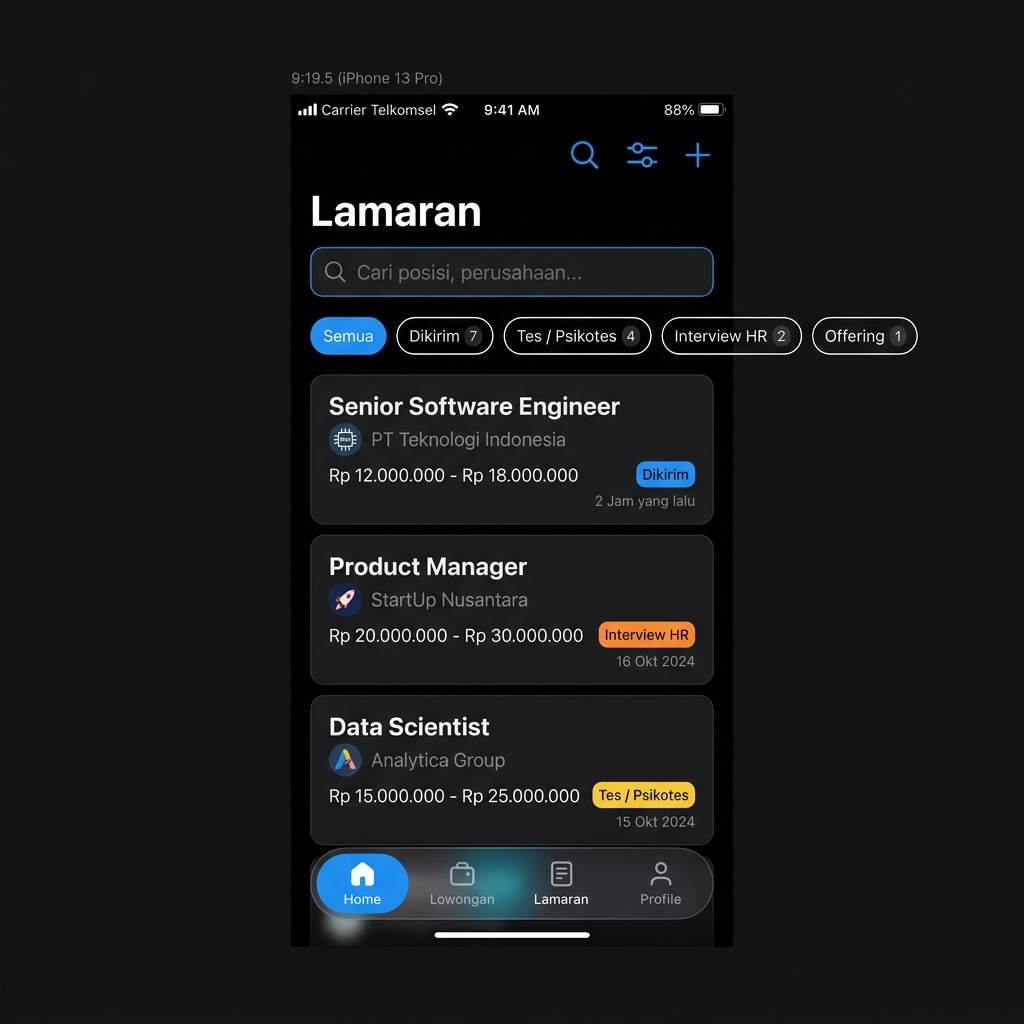
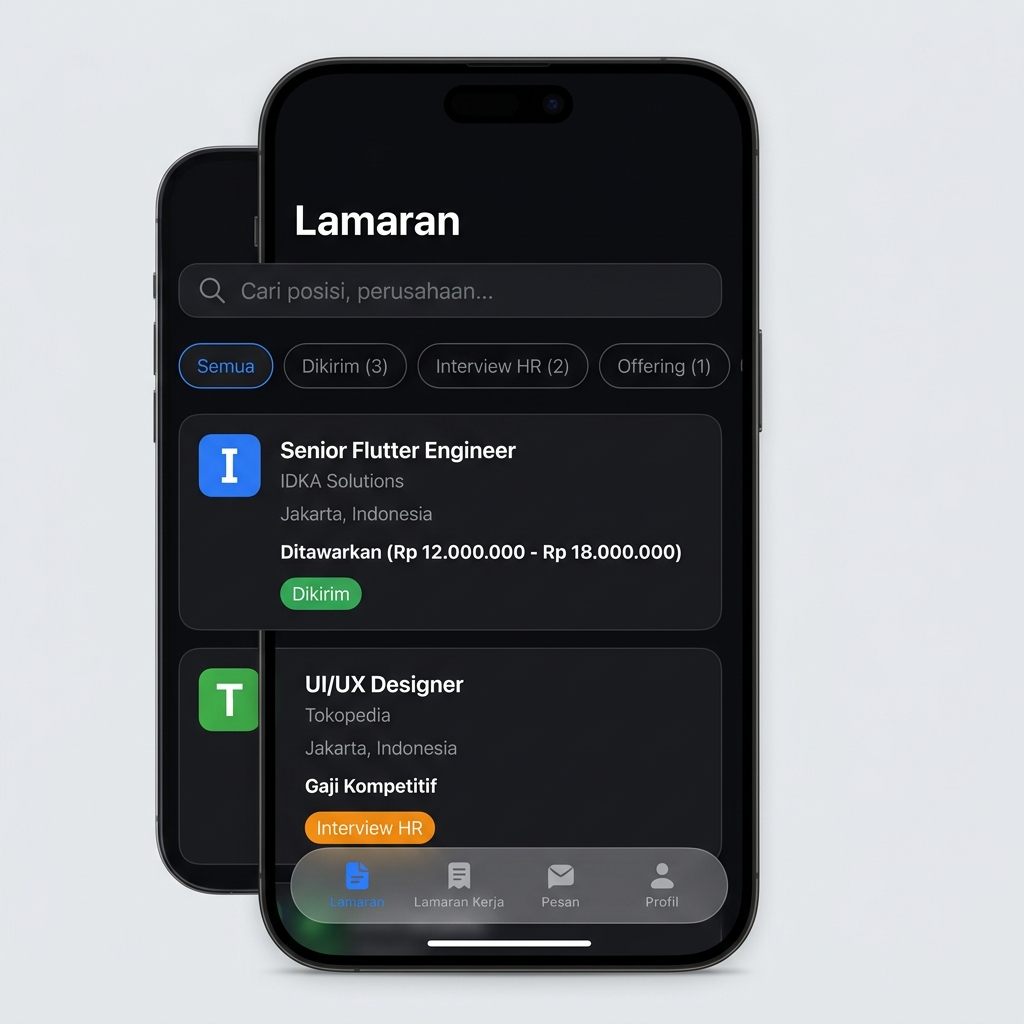
fix(produk): sempurnakan proporsi mockup HP, hapus notch tebal, & tampilkan screenshot UI presisi edge-to-edge. idka-solutions team

diff --git a/src/pages/Produk.css b/src/pages/Produk.css
@@ -26,7 +26,7 @@
   overflow: hidden;
   display: flex;
   flex-direction: column;
-  min-height: 420px;
+  min-height: 480px;
   transition: transform 0.3s var(--ease-out), box-shadow 0.3s var(--ease-out);
 }
 
@@ -39,16 +39,17 @@
   position: absolute;
   top: 1.25rem;
   right: 1.25rem;
-  z-index: 2;
-  padding: 6px 12px;
+  z-index: 10;
+  padding: 6px 14px;
   border-radius: 980px;
   font-size: 0.72rem;
   font-weight: 700;
   letter-spacing: 0.04em;
   text-transform: uppercase;
-  background: rgba(29, 29, 31, 0.08);
+  background: rgba(255, 255, 255, 0.85);
   color: #1d1d1f;
-  backdrop-filter: blur(8px);
+  backdrop-filter: blur(12px);
+  box-shadow: 0 2px 8px rgba(0, 0, 0, 0.06);
 }
 
 .produk-card--blue .produk-card__badge {
@@ -57,17 +58,18 @@
 }
 
 .produk-card--emerald .produk-card__badge {
-  background: rgba(0, 135, 90, 0.12);
+  background: rgba(0, 135, 90, 0.14);
   color: #00875a;
 }
 
 .produk-card__visual {
   flex: 1;
-  min-height: 240px;
+  min-height: 310px;
   display: flex;
   align-items: center;
   justify-content: center;
-  padding: 2.5rem 1.5rem 1rem;
+  padding: 3.5rem 1.5rem 1.5rem;
+  position: relative;
   background:
     radial-gradient(ellipse 80% 70% at 50% 40%, rgba(255, 255, 255, 0.9), transparent 70%),
     linear-gradient(180deg, #f5f5f7 0%, #ffffff 100%);
@@ -187,49 +189,53 @@
 
 /* ===== Phone mock ===== */
 .produk-mock--phone {
-  width: 165px;
-  height: 290px;
-  border-radius: 30px;
-  background: #0d0d0e;
-  padding: 8px;
+  width: 145px;
+  height: 260px;
+  border-radius: 26px;
+  background: #000000;
+  padding: 5px;
   box-shadow:
-    0 24px 48px rgba(0, 0, 0, 0.22),
-    0 0 0 1px rgba(255, 255, 255, 0.12) inset;
+    0 20px 44px rgba(0, 0, 0, 0.22),
+    0 0 0 1px rgba(255, 255, 255, 0.14) inset;
   position: relative;
+  margin-top: 0.5rem;
   transition: transform 0.3s var(--ease-out);
 }
 
 .produk-card:hover .produk-mock--phone {
-  transform: translateY(-4px) scale(1.02);
+  transform: translateY(-6px) scale(1.03);
 }
 
 .produk-mock__phone-notch {
-  width: 50px;
-  height: 7px;
+  width: 38px;
+  height: 5px;
   border-radius: 980px;
-  background: #2c2c2e;
-  margin: 2px auto 6px;
-  position: relative;
-  z-index: 2;
+  background: #202022;
+  position: absolute;
+  top: 8px;
+  left: 50%;
+  transform: translateX(-50%);
+  z-index: 5;
 }
 
 .produk-mock__phone-screen {
-  height: calc(100% - 15px);
+  width: 100%;
+  height: 100%;
   border-radius: 22px;
   overflow: hidden;
   background: #000000;
   display: flex;
   align-items: center;
   justify-content: center;
-  border: 1px solid rgba(255, 255, 255, 0.08);
+  position: relative;
 }
 
 .produk-mock__phone-screen img {
   width: 100%;
   height: 100%;
   object-fit: cover;
-  object-position: top center;
-  border-radius: 20px;
+  object-position: center;
+  border-radius: 21px;
   display: block;
 }
 
